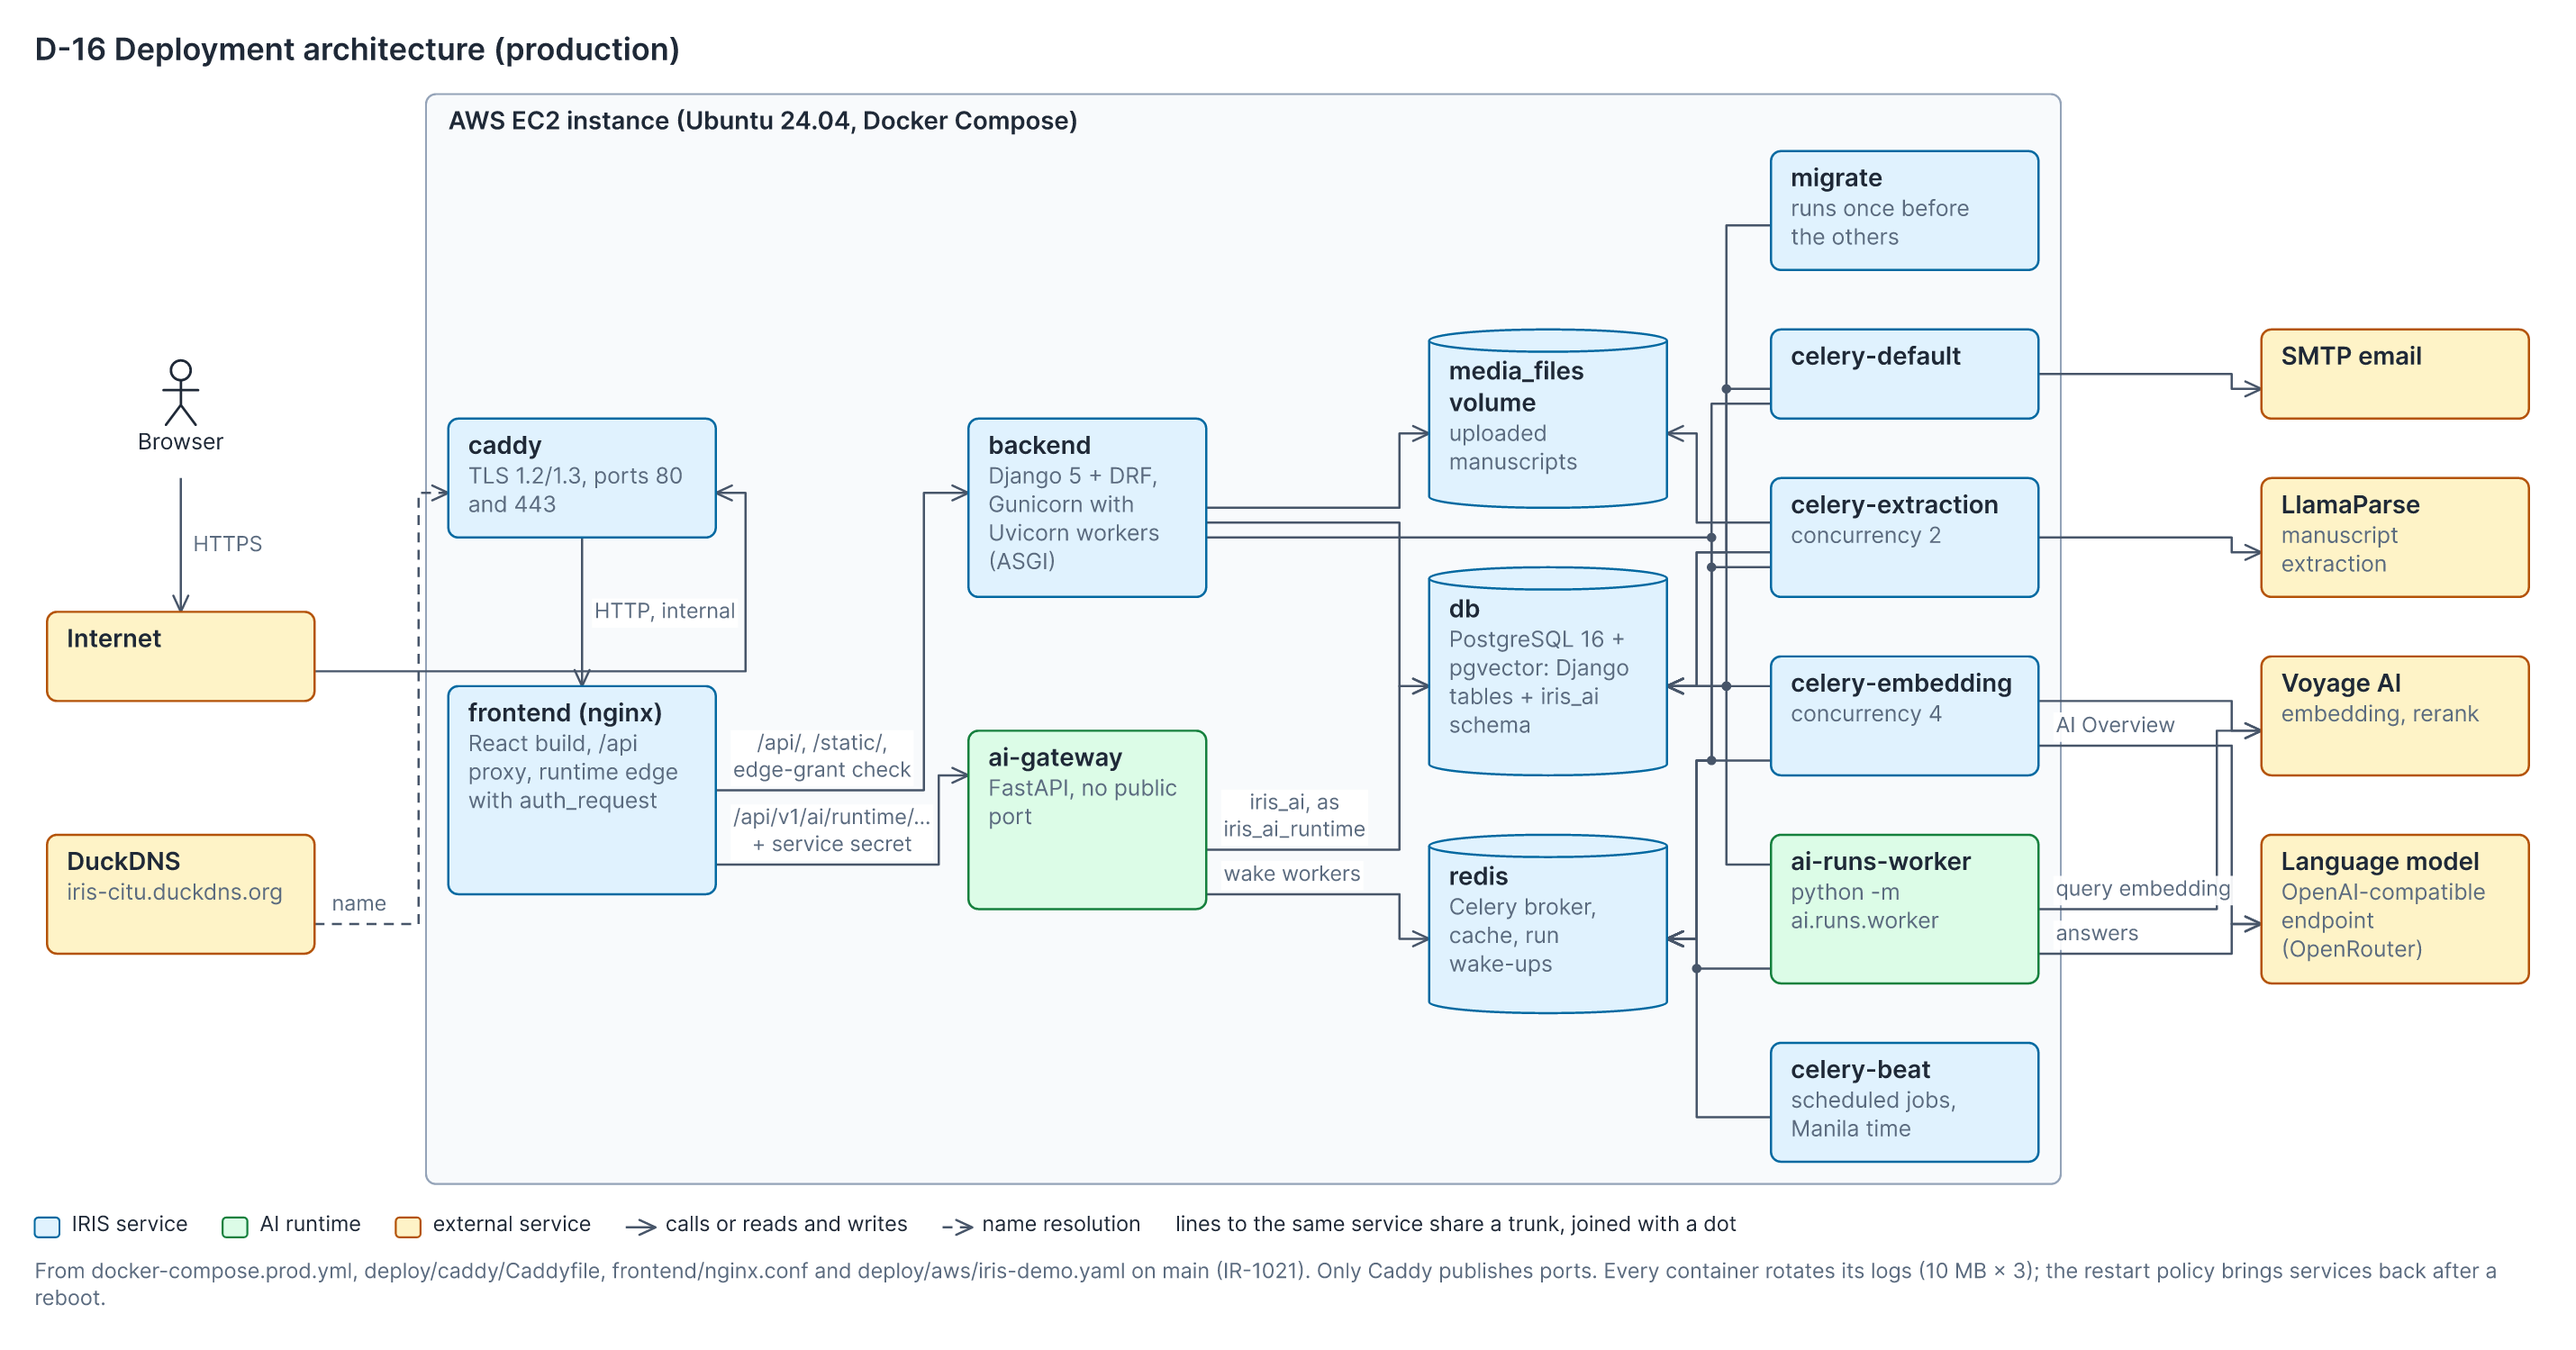
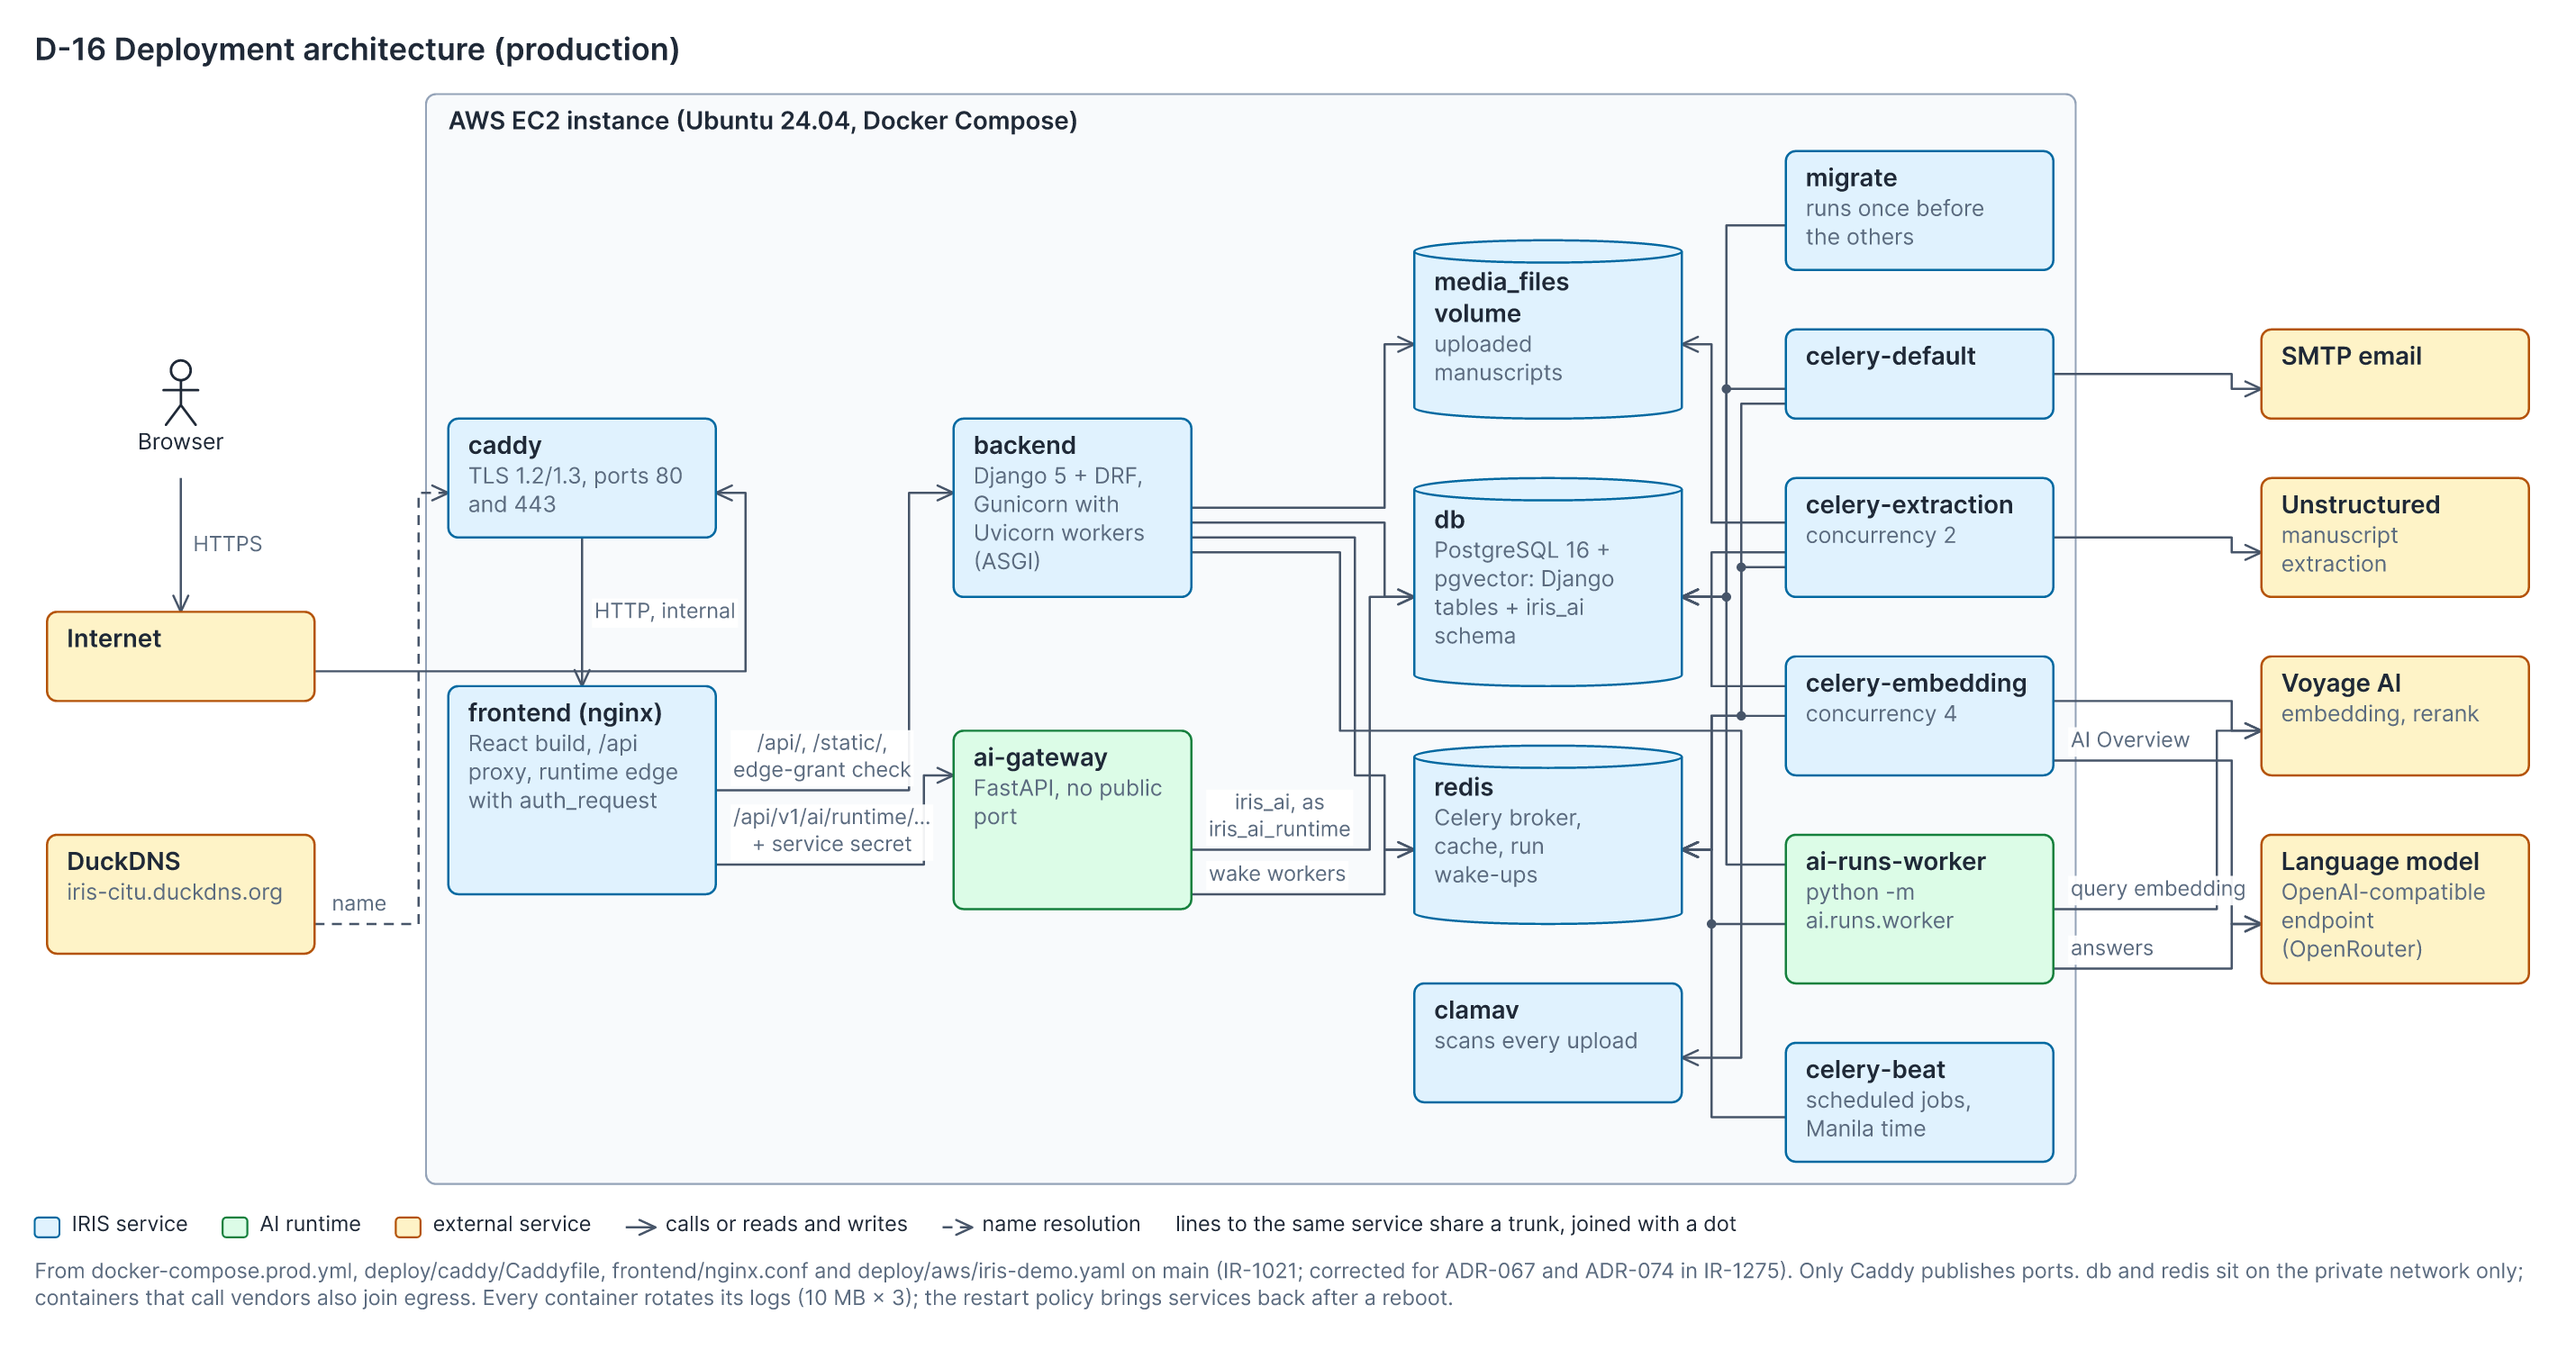
docs(IR-1275): correct Section D figures for Unstructured, ClamAV and the published-only gate
D-01, D-03, D-16 and D-17 named LlamaParse, D-16 had no ClamAV container, and D-17 predated ADR-052's 2026-11-21 amendment. D-16 and D-17 now carry the corrected content that V-1 and V-2 held, so those two copies are removed.

diff --git a/docs/SDD-v2.md b/docs/SDD-v2.md
@@ -524,7 +524,7 @@ Section D figures are in `docs/diagrams/section-d/png/` (IR-1021). The ERDs and 
 
 **Note on Section D:** D-16 and D-17 predate ADR-067 (Unstructured) and ADR-074 (ClamAV), and D-17 predates ADR-052's 2026-11-21 amendment. V-1 and V-2 are their corrected versions, and this document uses those instead.
 
-![V-1](diagrams/srs-sdd-v2/png/V-01-deployment.png)
+![V-1](diagrams/section-d/png/D-16-architecture-deployment.png)
 ![D-8](diagrams/section-d/png/D-08-erd-overview.png)
 ![D-9](diagrams/section-d/png/D-09-erd-accounts.png)
 ![D-10](diagrams/section-d/png/D-10-erd-records.png)
@@ -536,7 +536,7 @@ Section D figures are in `docs/diagrams/section-d/png/` (IR-1021). The ERDs and 
 ![D-19](diagrams/section-d/png/D-19-component-backend.png)
 ![D-20](diagrams/section-d/png/D-20-class-workflow-core.png)
 ![D-21](diagrams/section-d/png/D-21-component-ai-runtime.png)
-![V-2](diagrams/srs-sdd-v2/png/V-02-manuscript-flow.png)
+![V-2](diagrams/section-d/png/D-17-architecture-manuscript-flow.png)
 ![V-3](diagrams/srs-sdd-v2/png/V-03-record-states.png)
 ![V-4](diagrams/srs-sdd-v2/png/V-04-clearance-aware-resubmission.png)
 ![V-5](diagrams/srs-sdd-v2/png/V-05-sign-in-and-refresh.png)

diff --git a/docs/SRS-v2.md b/docs/SRS-v2.md
@@ -1092,8 +1092,8 @@ Figures are PNG files in the repository. Section D figures (`docs/diagrams/secti
 ![D-5](diagrams/section-d/png/D-05-usecase-discovery.png)
 ![D-6](diagrams/section-d/png/D-06-usecase-ask-iris.png)
 ![D-7](diagrams/section-d/png/D-07-usecase-administration.png)
-![V-1](diagrams/srs-sdd-v2/png/V-01-deployment.png)
-![V-2](diagrams/srs-sdd-v2/png/V-02-manuscript-flow.png)
+![V-1](diagrams/section-d/png/D-16-architecture-deployment.png)
+![V-2](diagrams/section-d/png/D-17-architecture-manuscript-flow.png)
 ![V-3](diagrams/srs-sdd-v2/png/V-03-record-states.png)
 ![V-4](diagrams/srs-sdd-v2/png/V-04-clearance-aware-resubmission.png)
 ![D-18](diagrams/section-d/png/D-18-architecture-ask-iris-flow.png)
